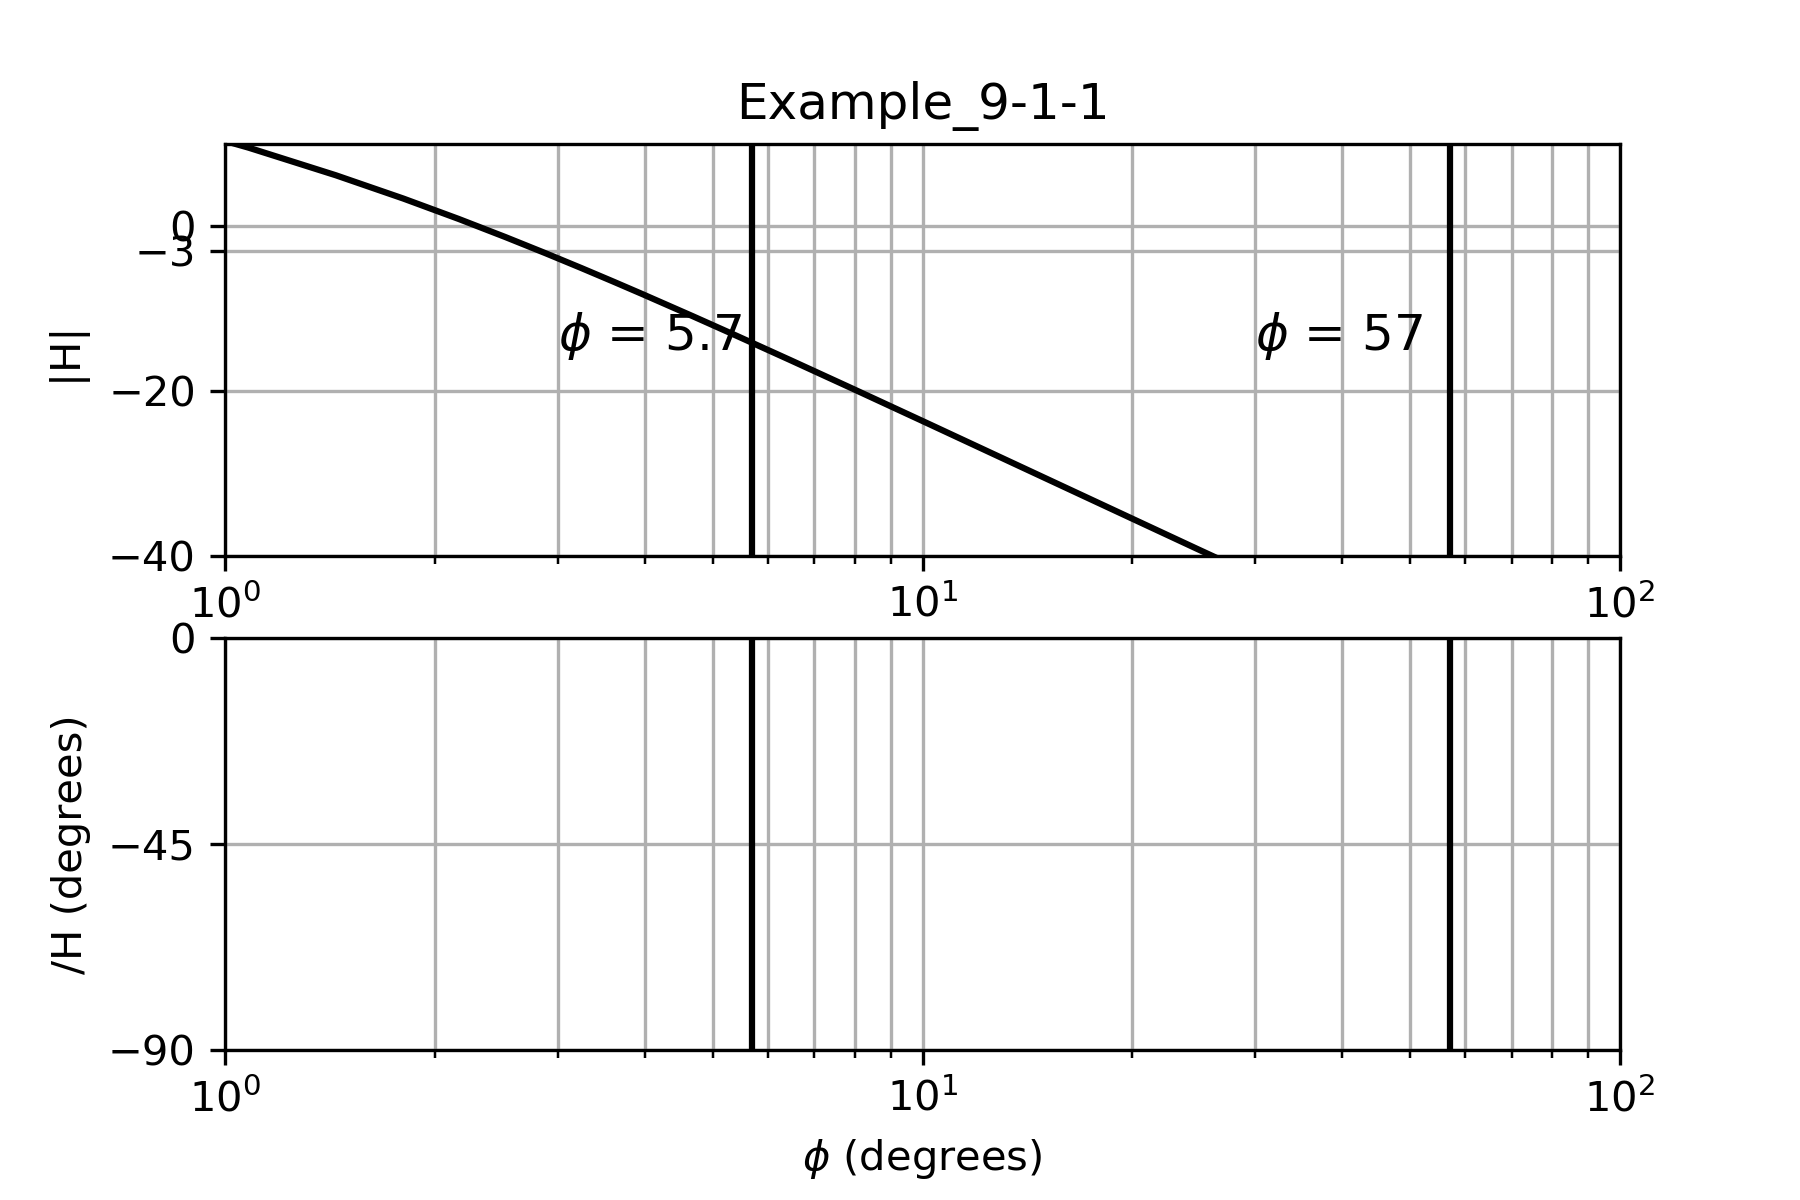
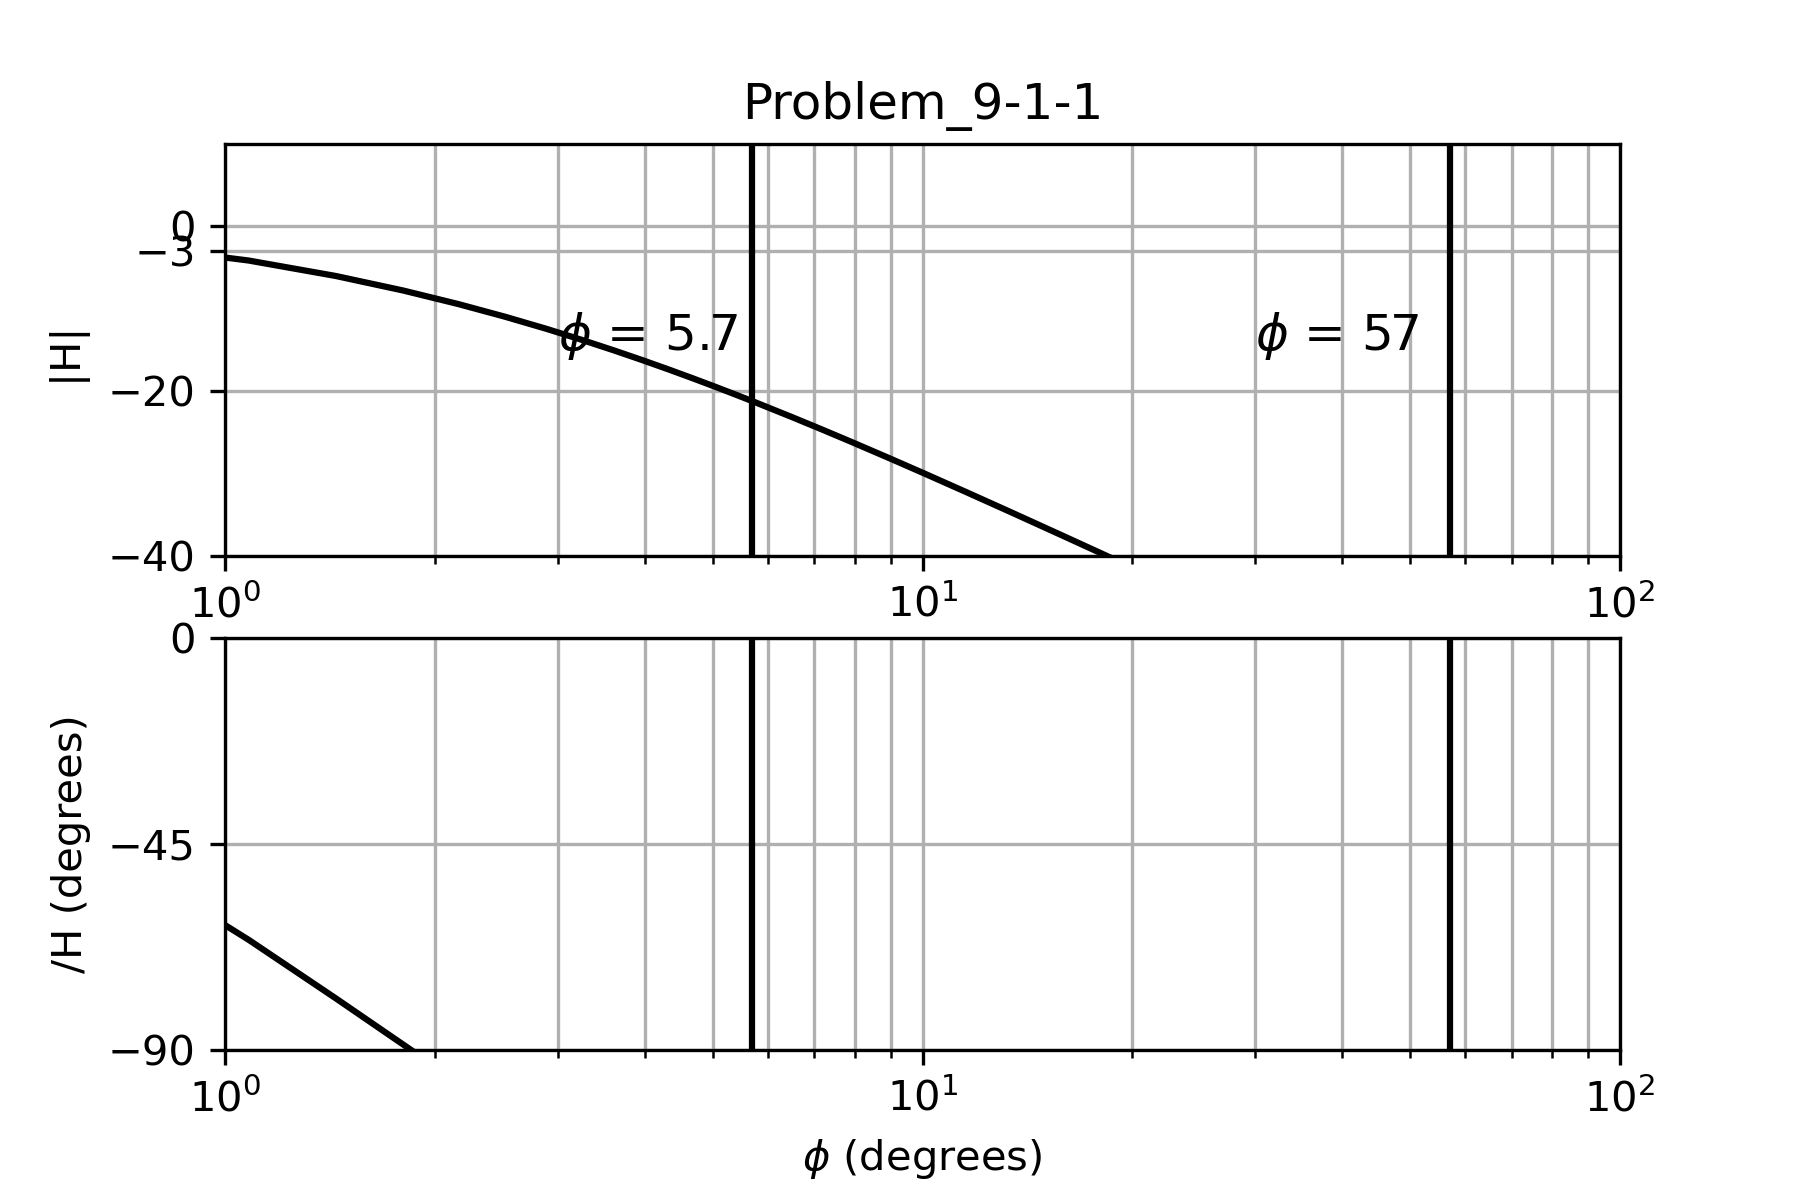
11-16-2023

diff --git a/Example_9_11.py b/Example_9_11.py
@@ -14,13 +14,13 @@ import cmath
 NN = 1000
 phi = np.linspace(0,2*pi,NN)
 dt = .01
-z = np.zeros(NN, dtype = np.complex)
-H = np.zeros(NN, dtype = np.complex)
+z = np.zeros(NN, dtype = complex)
+H = np.zeros(NN, dtype = complex)
 """---- One pole filter (Eq, 9.1.3) ------------"""
 for n in range(0,NN):
     z = cmath.exp(1j*phi[n])
     try:
-        H[n] = (0.002*z)/(z**2-1.97*z**1 + .97)
+        H[n] = (0.001*z)/(z**2-1.921*z + .922)
     except:
         print('woops')
 plt.subplot(211)
@@ -33,7 +33,7 @@ plt.axvline(5.7,color='k')
 plt.text(3,-15,'$\phi$ = {}'.format(round(5.7,3)),fontsize=12)
 plt.axvline(57,color='k')
 plt.text(30,-15,'$\phi$ = {}'.format(round(57,3)),fontsize=12)
-plt.title('Example_9-1-1')
+plt.title('Problem_9-1-1')
 plt.grid(which='both')
 aaa = np.angle(H)
 #for n in range(NN):
@@ -56,26 +56,26 @@ plt.xlabel('$\phi$ (degrees)')
 plt.savefig('H_zbode.png',dpi=300)
 plt.show()
 """This is the time-domain simulation of section 9.1.3"""
-MM = 500
+MM = 5000
 x = np.zeros(MM)
 y = np.zeros(MM)
 w1 = 5
 w2 = 100
 for k in range(1,MM):
     try:
-        x[k] = 1.*sin(w1*dt*k) + sin(w2*dt*k)
-        y[k] = 0.002*x[k]+1.97*y[k-1]-0.97*[k-2]
+        x[k] = 0.5*sin(5*dt*k) + sin(0.5*dt*k)
+        y[k] = 0.001*x[k-1]+1.921*y[k-1]-0.922*y[k-2]
     except:
-        print('woops')
-plt.subplot(211)
+        print(k)
+plt.subplot(2,1,1)
 plt.plot(x,'k')
 plt.ylabel('x[k]')
-plt.title('Example_9-1-1')
+plt.title('Problem_9-1-1')
 plt.grid()
-plt.subplot(212)
+plt.subplot(2,1,2)
 plt.plot(y,'k')
 plt.ylabel('y[k]')
-plt.axis([0,MM,-1.2,1.2])
+#plt.axis([0,MM,-1.2,1.2])
 plt.yticks([-1,-.7,0,.7,1])
 plt.grid()
 plt.savefig('Time_plot.png')
